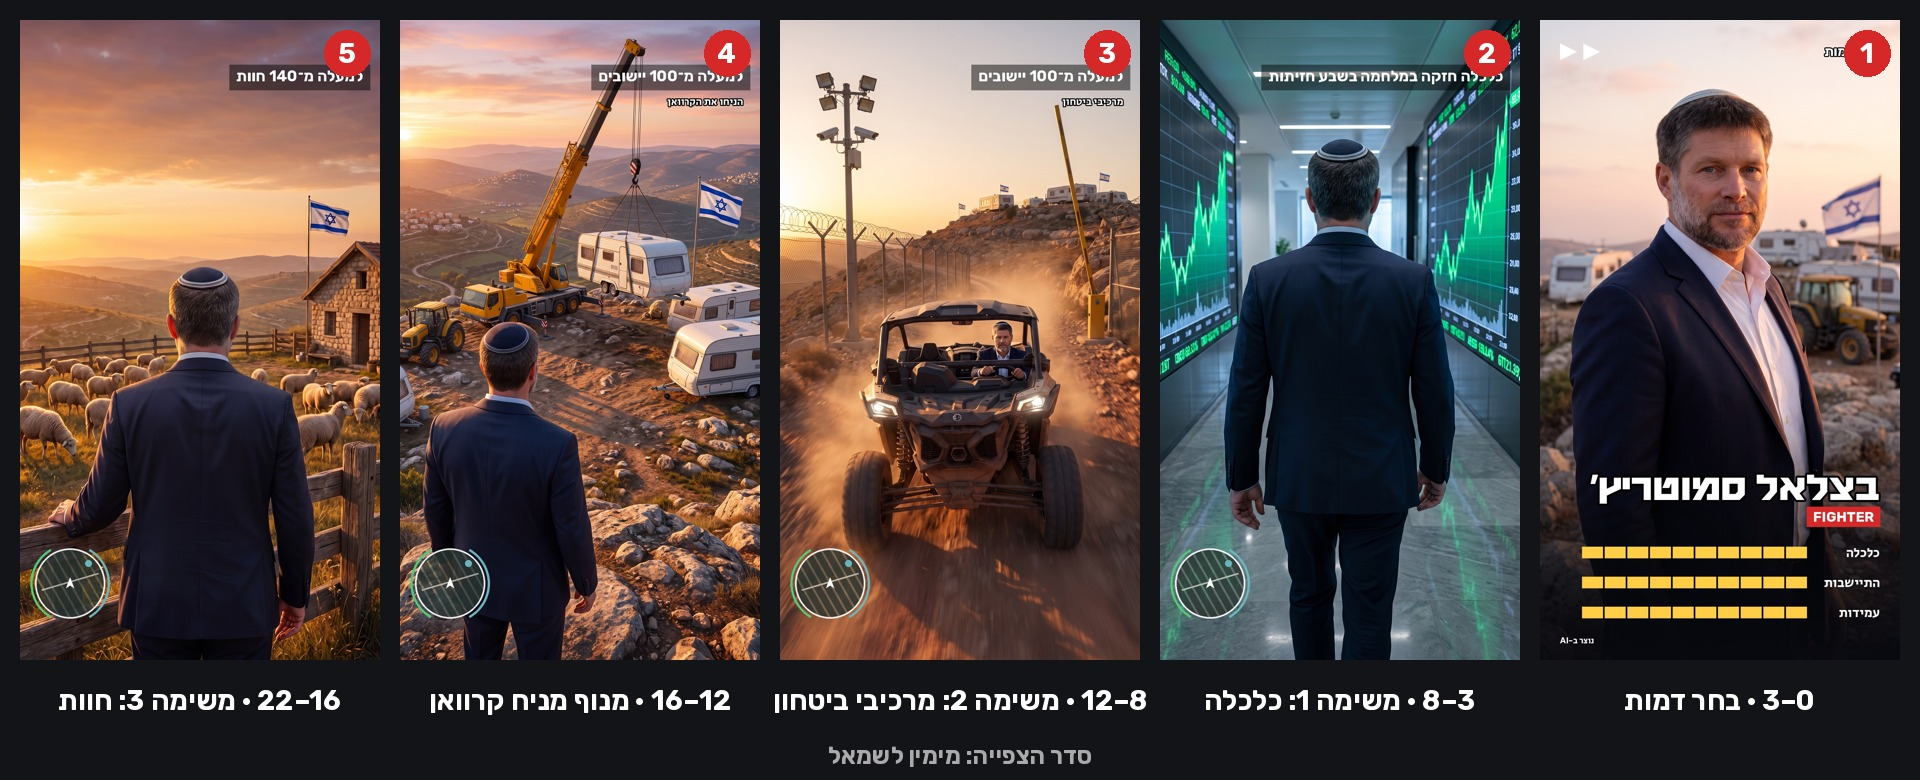
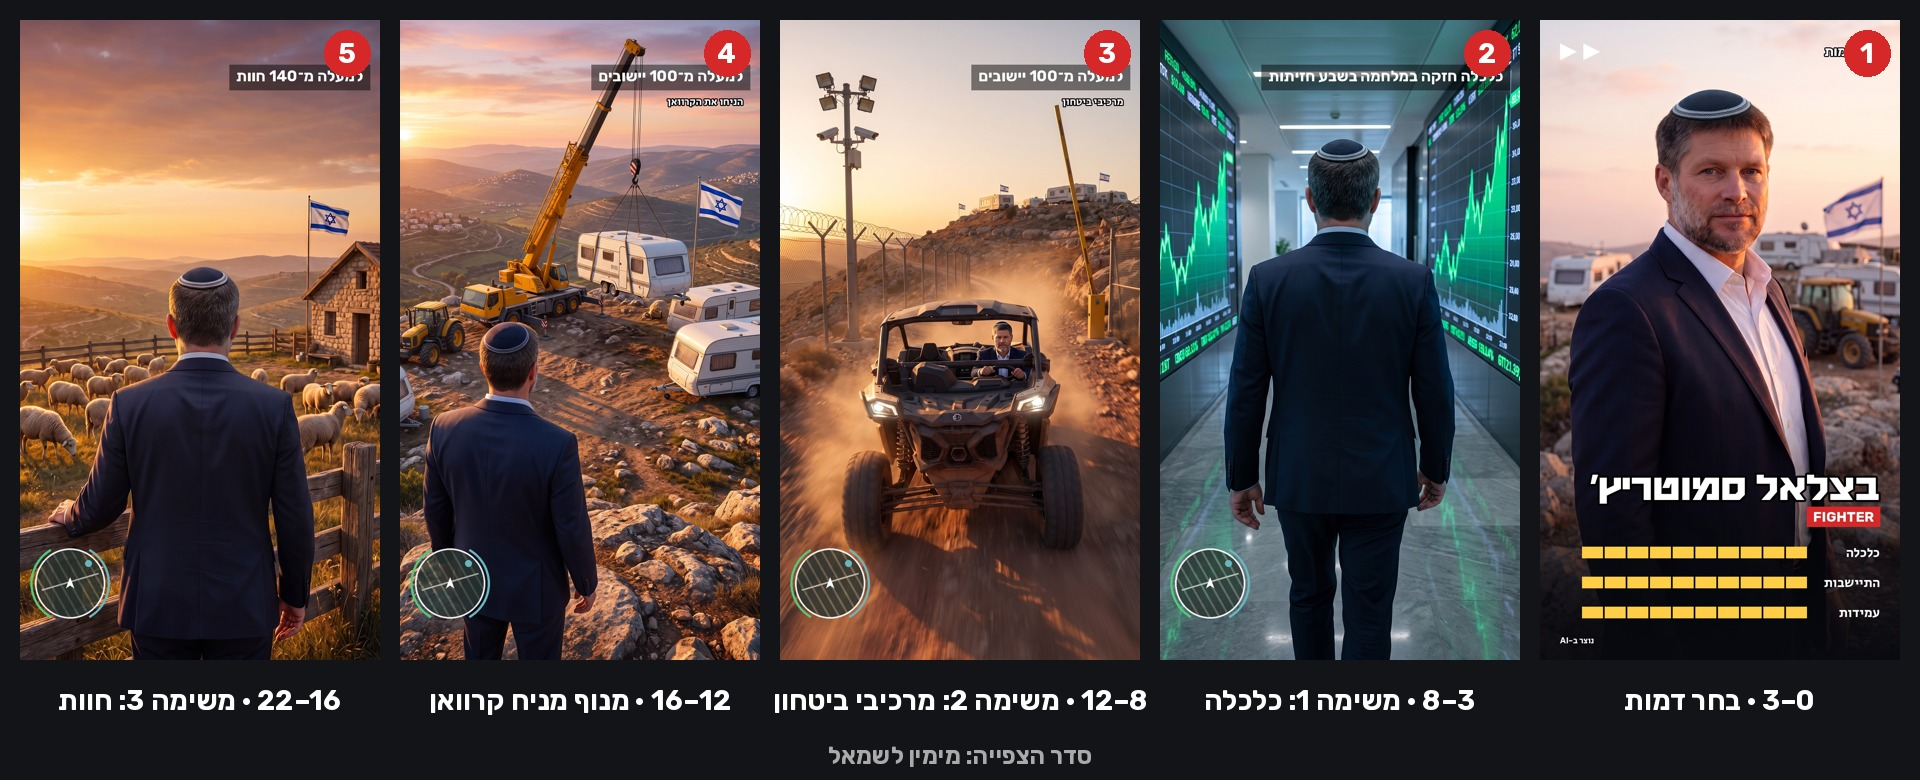
RZ game reel: unify kippah/outfit on select screen
Claude-Session: https://claude.ai/code/session_01RS3QK6pAd3YhyAuXZSJjH1

Changed region(s): [[0.7812, 0.1846, 1.0, 0.6154], [0.7812, 0.5538, 0.8438, 0.6769], [0.875, 0.0923, 0.9375, 0.1538]]

diff --git a/content-kit/hatzionut-hadatit/2026-11-reel-game-team/select.py b/content-kit/hatzionut-hadatit/2026-11-reel-game-team/select.py
@@ -6,7 +6,7 @@ KB = HERE + '/../../fonts/HaimClassicv2FM-Bold.ttf'; RUB = '/tmp/claude-0/-home-
 SEC = '/tmp/claude-0/-home-user-The-tur/1a5819ee-0cc0-5045-b086-4a8a80216453/scratchpad/shalev/fonts/SecularOne.ttf'
 W, H = 1080, 1920; LT = (105, 180, 189); GOLD = (255, 205, 70)
 def F(p, s): return ImageFont.truetype(p, s, layout_engine=ImageFont.Layout.RAQM)
-im = ImageOps.fit(Image.open(HERE + '/gen/select.png').convert('RGB'), (W, H), Image.LANCZOS).convert('RGBA')
+im = ImageOps.fit(Image.open(HERE + '/gen/select-v2.png').convert('RGB'), (W, H), Image.LANCZOS).convert('RGBA')
 ov = Image.new('RGBA', (W, H)); od = ImageDraw.Draw(ov)
 for y in range(H): od.line((0, y, W, y), fill=(8, 10, 16, int(230 * max(0, (y - 1150) / 770) ** 1.1)))
 im.alpha_composite(ov); d = ImageDraw.Draw(im); R = W - 60
